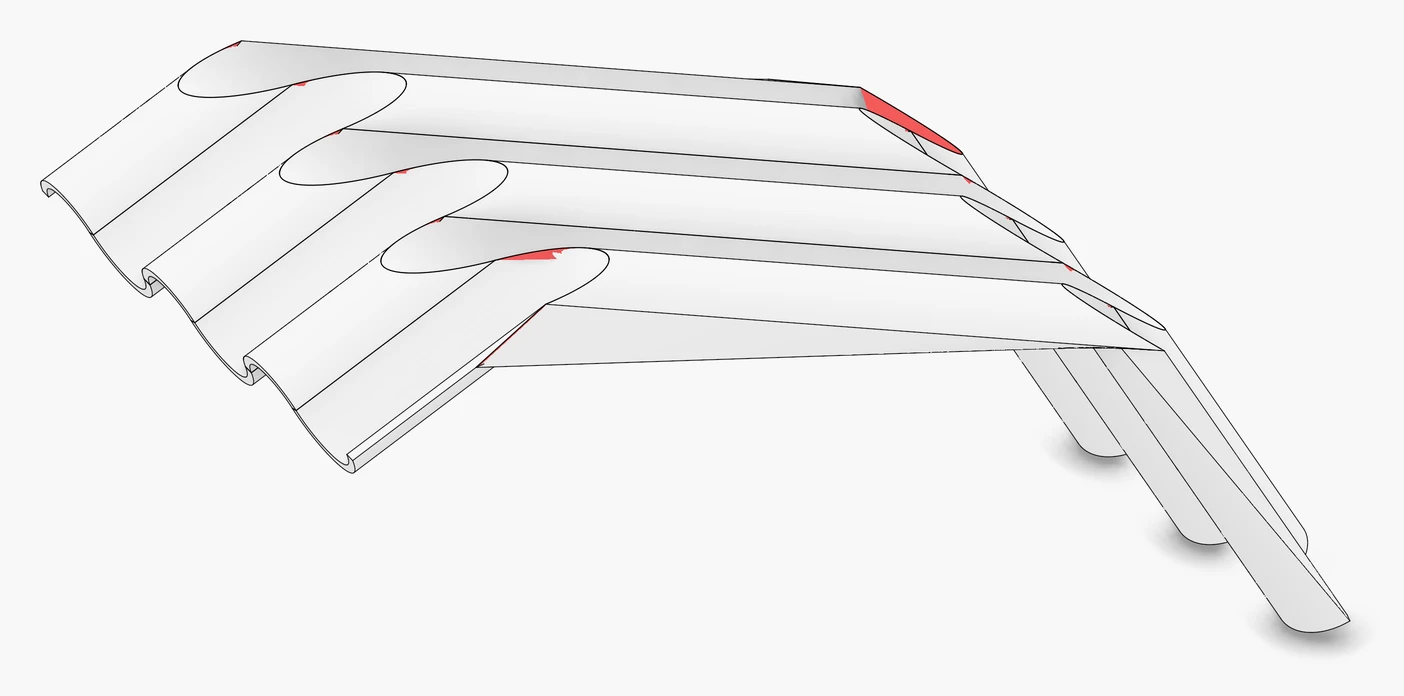
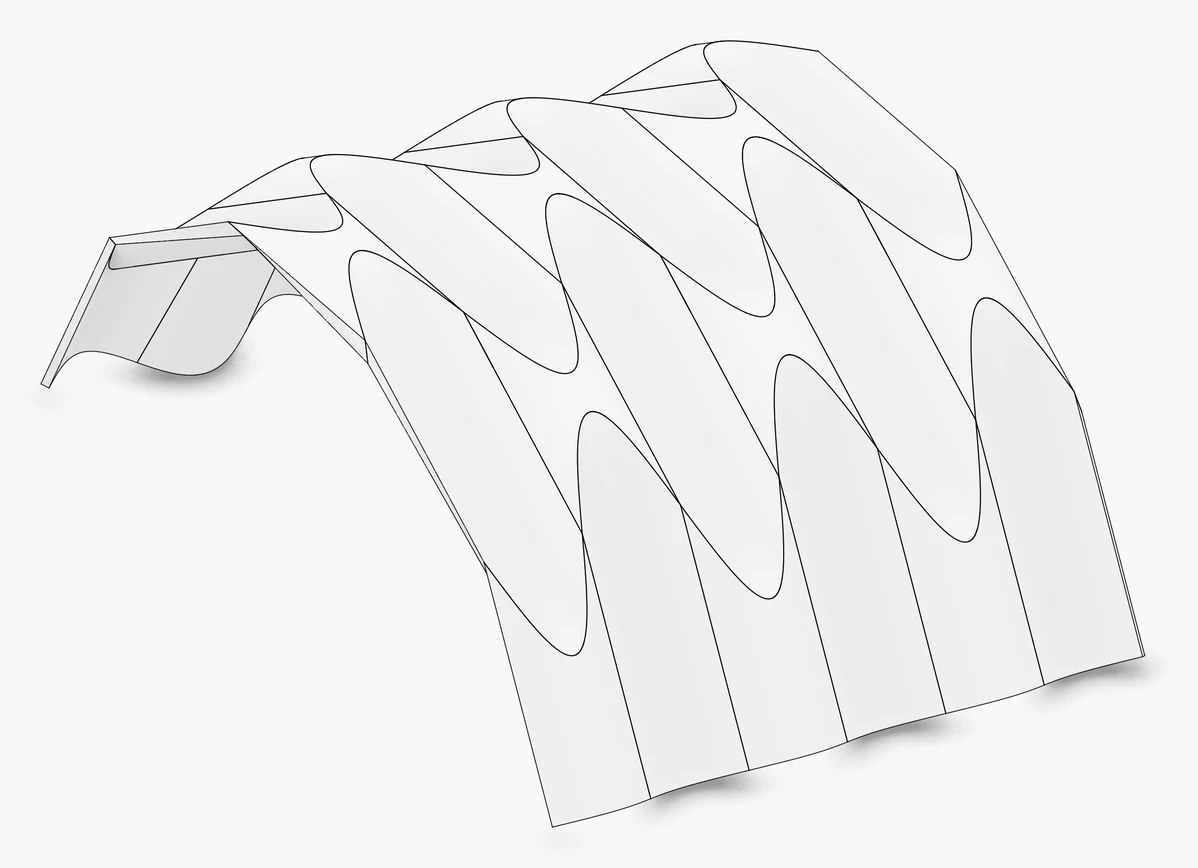
wood: curved folded plate back to the full arch, a wave corrugation folded at four reverse folds over 13.5 m, with the shared seams and contacts

diff --git a/examples/templates_curved_folding_3_curved_folded_plate.cpp b/examples/templates_curved_folding_3_curved_folded_plate.cpp
@@ -4,21 +4,19 @@
 using namespace session_cpp;
 using namespace wood_session;
 
-/// The IBOIS curved folded plate: a smooth wave section of alternating arcs, three crests, swept and reflected at the kinks of their polyline, a short rise, a long descending slope and a steep leg to the ground.
+/// A curved folded plate: a wave corrugation folded at the reverse folds of an arch of five segments spanning 13.5 m, every half wave
+/// of every segment a curved plate.
 int main() {
 
-    const double climb = 25.0 * Tolerance::TO_RADIANS;
-    const Vector along(std::cos(climb), 0.0, std::sin(climb));
-    const Vector up(-std::sin(climb), 0.0, std::cos(climb));
-    const Point foot(0.0, 12000.0, 0.0);
+    const double climb = 60.0 * Tolerance::TO_RADIANS;
+    const Vector along(0.0, std::cos(climb), std::sin(climb));
+    const Vector up(0.0, -std::sin(climb), std::cos(climb));
     ReflectionFold fold(
-        ReflectionFold::meander(foot, Vector(0.0, -1.0, 0.0), up, 6, 1200.0, 450.0),
+        ReflectionFold::waves(Point(-4500.0, 0.0, 0.0), Vector(1.0, 0.0, 0.0), up, 6, 1500.0, 400.0),
         along,
-        Vector(0.0, -1.0, 0.0),
-        17000.0,
-        {{3000.0, -45.0 * Tolerance::TO_RADIANS, true}, {12000.0, -40.0 * Tolerance::TO_RADIANS, true}},
-        std::nullopt,
-        120.0
+        Vector(1.0, 0.0, 0.0),
+        18100.0,
+        {{3620.0, -30.0 * Tolerance::TO_RADIANS}, {7240.0, -30.0 * Tolerance::TO_RADIANS}, {10860.0, -30.0 * Tolerance::TO_RADIANS}, {14480.0, -30.0 * Tolerance::TO_RADIANS}}
     );
     std::cout << fold << std::endl;
 
@@ -35,7 +33,7 @@ int main() {
 
 /*
 |||||||| DESCRIPTION ||||||||
-Step 3 of the curved folding templates: the IBOIS curved folded plate, a smooth wave section folded along a polyline, the curved counterpart of a zigzag folded plate. The section is a meander of six circular arcs, each 1200 wide and 450 deep, bulging up and down in turn and meeting tangent to each other, three crests across 7.2 m; it is swept along a polyline, a short rise at 25 degrees for 3 m, a reflection of 45 degrees at the ridge onto a slope falling 20 degrees for 9 m, and a reflection of 40 degrees onto a leg falling 60 degrees for 5 m to the ground. Every crease is the reflection plane's section of the wave, every half wave of every segment one lamella. Every part of the sheet between two creases and two curves of the profile is a lamella, a PlateCurved: the exact cylinder between its two creases, the thickness on the one physical underside the material keeps through every fold, its side faces the mitre it shares with the next plate across the crease, the crease plane's section at a mirror fold and the exact crossing of the two offset cylinders at a reflection, its caps the rulings at the profile curves' ends, mitred between neighbouring curves; every lamella unfolds flat, its development drawn where it lies on the unrolled sheet in the group flat; the session's contact detection finds every shared face. Groups: creases, lamellas (lamella_<segment>_<row>), flat.
+Step 3 of the curved folding templates: a curved folded plate. A wave corrugation, three sine waves of 3 m wavelength and 400 mm amplitude across a 9 m wide sheet, is swept along a polygonal arch of five segments of 3.62 m turning 30 degrees at each of four reverse folds, from 60 degrees up at one foot to 60 degrees down at the other, spanning 13.5 m and rising 4.9 m. Every reverse fold is a reflection of the sheet in the plane bisecting the kink, so every crease is that plane's section of the corrugation, a planar wave, and the sheet still unrolls flat. Every half wave of every segment is one lamella, a PlateCurved: the exact cylinder between its two creases, 120 mm thick, mitred where it meets the next lamella across a crease, its caps the straight rulings at the waves' cusps and the sheet's edges. Groups: creases, lamellas (lamella_<segment>_<row>), flat.
 
 |||||||| DIRECTORY ||||||||
 cd wood_research/wood
@@ -44,7 +42,7 @@ cd wood_research/wood
 cmake -S . -B build -DCMAKE_BUILD_TYPE=Release
 
 |||||||| CMAKE BUILD && RUN && CLOUDFLARE ||||||||
-cmake --build build --target templates_curved_folding_3_curved_folded_plate --parallel 6 && ./build/templates_curved_folding_3_curved_folded_plate && ./bash/publish-scene.sh --target templates_curved_folding_3_curved_folded_plate
+cmake --build build --target templates_curved_folding_3_curved_folded_plate --parallel 6 && ./build/templates_curved_folding_3_curved_folded_plate && ../bash/publish-scene.sh --target templates_curved_folding_3_curved_folded_plate
 
 |||||||| VIEW ||||||||
 https://petrasvestartas.github.io/session/

diff --git a/docs/templates/curved_folding.md b/docs/templates/curved_folding.md
@@ -126,22 +126,20 @@ ReflectionFold fold(
 
 ### Curved folded plate {#curved_folded_plate}
 
-The IBOIS curved folded plate: a smooth wave section folded along a polyline, the curved counterpart of a zigzag folded plate. The section is a meander of six circular arcs, each 1200 wide and 450 deep, bulging up and down in turn and meeting tangent to each other, three crests across 7.2 m; it is swept along a polyline, a short rise at 25 degrees for 3 m, a reflection of 45 degrees at the ridge onto a slope falling 20 degrees for 9 m, and a reflection of 40 degrees onto a leg falling 60 degrees for 5 m to the ground. Every half wave of every segment is one lamella: 18 lamellas, 27 contacts, twelve on the two creases and fifteen between the arcs of the three segments (example `templates_curved_folding_3_curved_folded_plate`).
+A wave corrugation, three sine waves of 3 m wavelength and 400 mm amplitude across a 9 m wide sheet, swept along a polygonal arch of five segments of 3.62 m that turns 30 degrees at each of four reverse folds, from 60 degrees up at one foot to 60 degrees down at the other: 13.5 m span, 4.9 m rise. Every reverse fold is a reflection in the plane bisecting the kink, so every crease is a planar wave and the sheet still unrolls flat; every half wave of every segment is one lamella, 120 mm thick, mitred on the creases. 30 lamellas, 30 closed solids, 49 contacts (example `templates_curved_folding_3_curved_folded_plate`).
 
 ![curved folded plate](templates/templates_curved_folding_3_curved_folded_plate_lamellas.webp)
 
 ```cpp
-const double climb = 25.0 * Tolerance::TO_RADIANS;
-const Vector along(std::cos(climb), 0.0, std::sin(climb));
-const Vector up(-std::sin(climb), 0.0, std::cos(climb));
+const double climb = 60.0 * Tolerance::TO_RADIANS;
+const Vector along(0.0, std::cos(climb), std::sin(climb));
+const Vector up(0.0, -std::sin(climb), std::cos(climb));
 ReflectionFold fold(
- ReflectionFold::meander(Point(0.0, 12000.0, 0.0), Vector(0.0, -1.0, 0.0), up, 6, 1200.0, 450.0),
- along,
- Vector(0.0, -1.0, 0.0),
- 17000.0,
- {{3000.0, -45.0 * Tolerance::TO_RADIANS, true}, {12000.0, -40.0 * Tolerance::TO_RADIANS, true}},
- std::nullopt,
- 120.0
+    ReflectionFold::waves(Point(-4500.0, 0.0, 0.0), Vector(1.0, 0.0, 0.0), up, 6, 1500.0, 400.0),
+    along,
+    Vector(1.0, 0.0, 0.0),
+    18100.0,
+    {{3620.0, -30.0 * Tolerance::TO_RADIANS}, {7240.0, -30.0 * Tolerance::TO_RADIANS}, {10860.0, -30.0 * Tolerance::TO_RADIANS}, {14480.0, -30.0 * Tolerance::TO_RADIANS}}
 );
 ```
 
